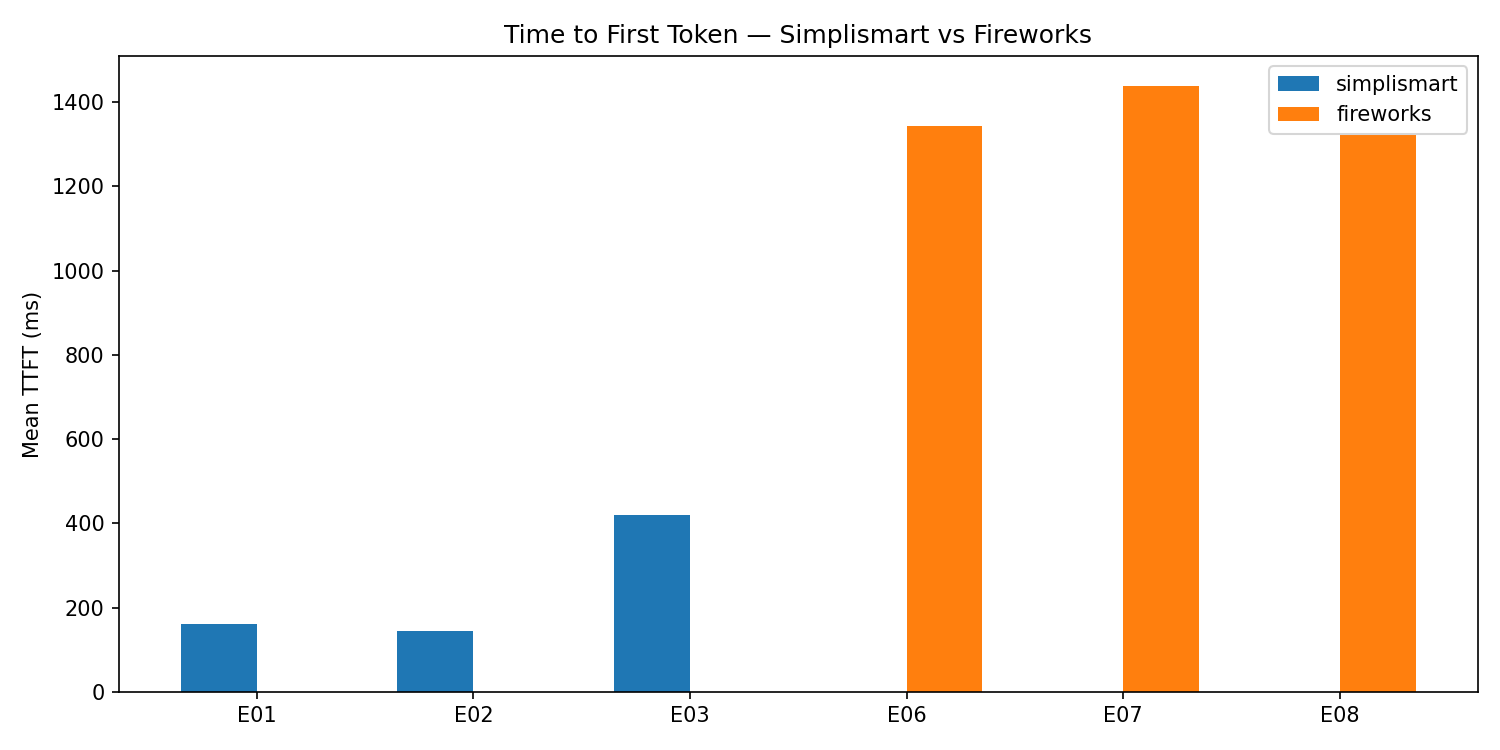
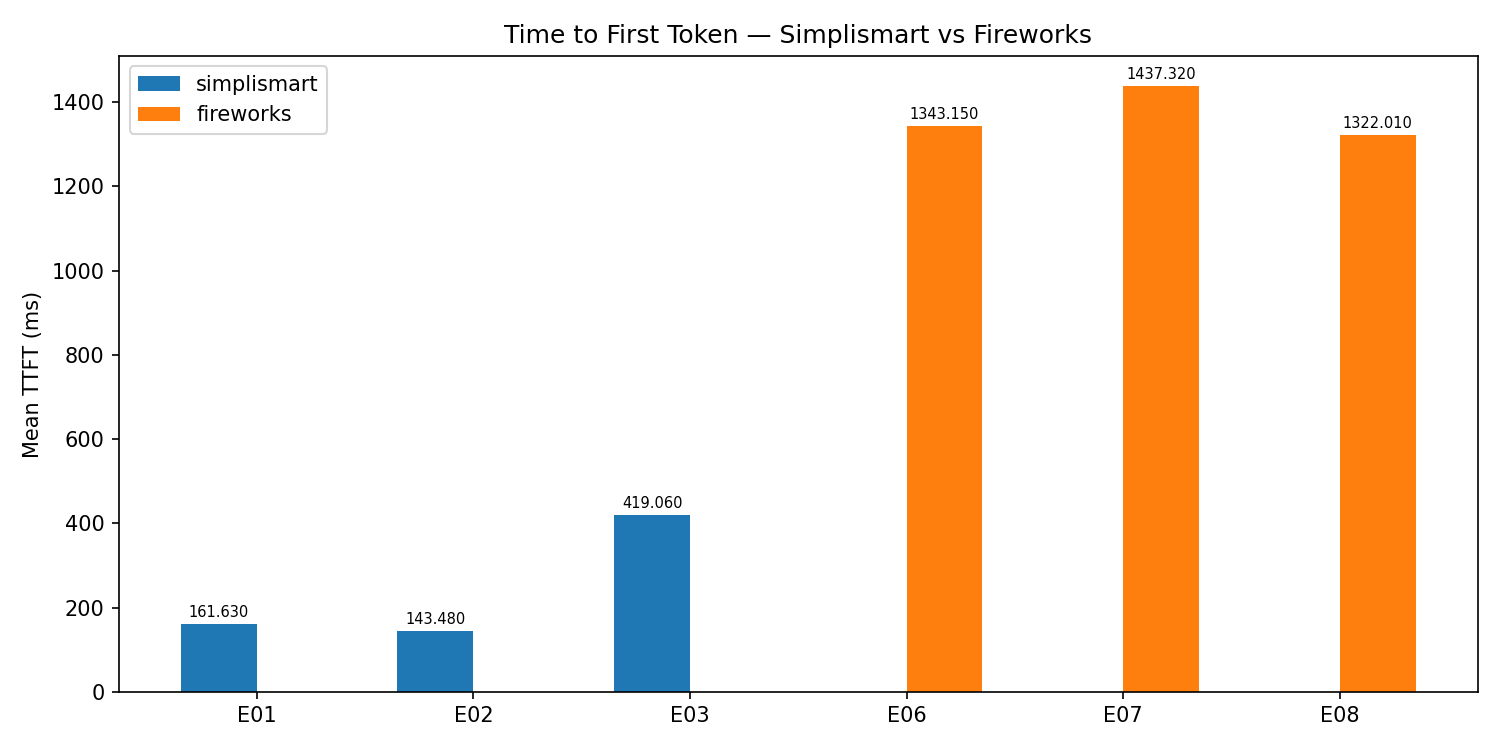
Add value labels to grouped bar charts (3 decimal precision)
Each bar in the TTFT, TPOT, ITL, and throughput comparison charts now
shows its exact value via ax.bar_label, making it easy to read precise
numbers without cross-referencing the summary table.

diff --git a/benchmark/report.py b/benchmark/report.py
@@ -118,7 +118,9 @@ def _grouped_bar(df: pd.DataFrame, metric: str, ylabel: str, title: str, out_pat
         pdata = df[df["platform"] == platform].set_index("scenario_id")
         vals = [pdata.loc[s, metric] if s in pdata.index else float("nan") for s in scenarios]
         offset = (i - len(platforms) / 2 + 0.5) * width
-        ax.bar([xi + offset for xi in x], vals, width, label=platform)
+        bars = ax.bar([xi + offset for xi in x], vals, width, label=platform)
+        ax.bar_label(bars, labels=[f"{v:.3f}" if v == v else "" for v in vals],
+                     fontsize=7, padding=2)
 
     ax.set_xticks(list(x))
     ax.set_xticklabels(scenarios)
